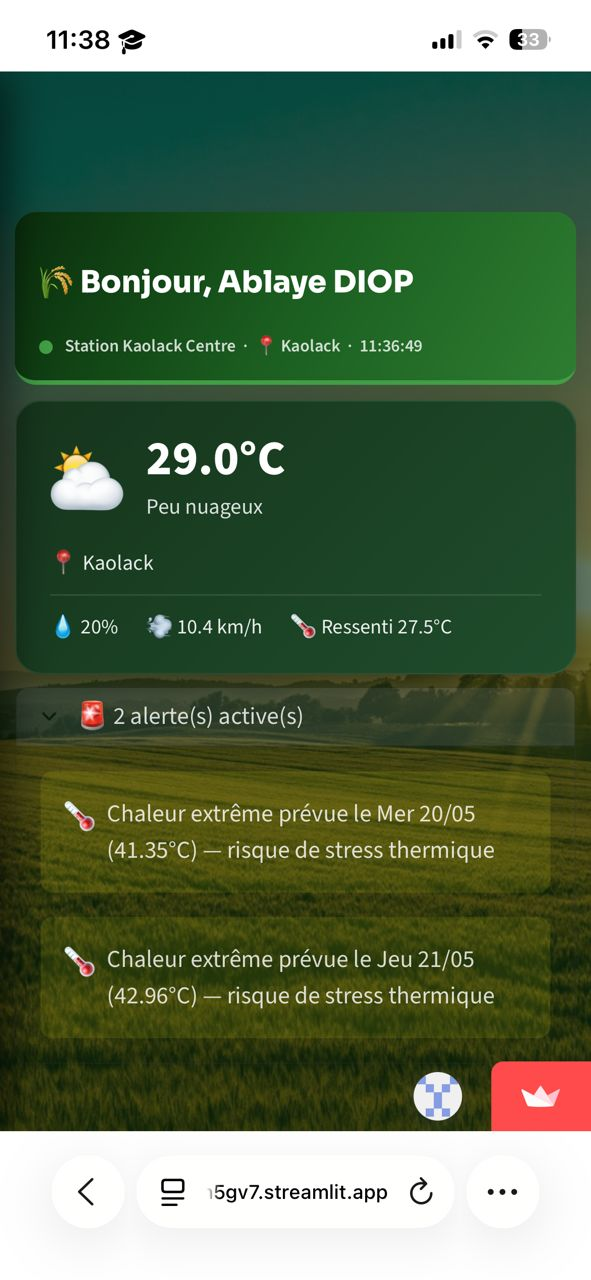
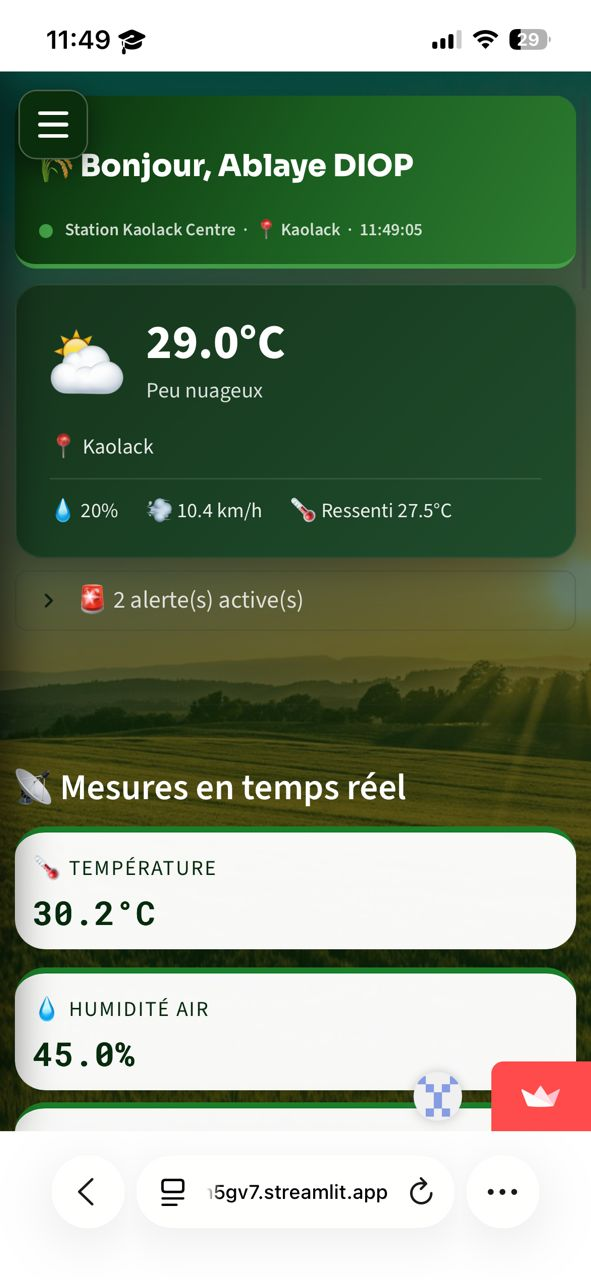
fix: mobile layout matches PC - keep horizontal columns instead of stacking

diff --git a/Agri_Station_meteo/frontend/css/styles.css b/Agri_Station_meteo/frontend/css/styles.css
@@ -750,45 +750,15 @@ li{
    ============================================================ */
 @media(max-width:768px){
 
-    /* ── Container ── */
+    /* ── Container — plus de padding top pour le hamburger ── */
     .block-container{
-        padding:0.5rem 0.6rem 1rem !important;
-        padding-top: 3.8rem !important;
+        padding:0.5rem 0.5rem 1rem !important;
+        padding-top: 3.5rem !important;
     }
 
-    /* ── Bouton hamburger natif Streamlit — visible et stylé ── */
+    /* ── Bouton hamburger natif Streamlit — caché (on utilise le custom) ── */
     [data-testid="collapsedControl"] {
-        display: flex !important;
-        visibility: visible !important;
-        opacity: 1 !important;
-        position: fixed !important;
-        top: 12px !important;
-        left: 12px !important;
-        z-index: 99999 !important;
-        background: var(--v-noir) !important;
-        border: 1px solid rgba(255,255,255,0.25) !important;
-        border-radius: 10px !important;
-        padding: 10px 13px !important;
-        box-shadow: 0 4px 16px rgba(0,0,0,0.55) !important;
-        cursor: pointer !important;
-        align-items: center !important;
-        justify-content: center !important;
-        transition: background 0.25s ease !important;
-    }
-    [data-testid="collapsedControl"]:hover {
-        background: var(--v-foret) !important;
-    }
-    [data-testid="collapsedControl"] svg {
-        fill: white !important;
-        color: white !important;
-        width: 22px !important;
-        height: 22px !important;
-    }
-    /* Libellé ">" natif Streamlit — cacher le texte, garder l'icône */
-    [data-testid="collapsedControl"] span {
-        color: white !important;
-        font-size: 1.4rem !important;
-        font-weight: 900 !important;
+        display: none !important;
     }
 
     /* ── Sidebar mobile ── */
@@ -806,105 +776,105 @@ li{
         transition: transform 0.3s cubic-bezier(0.25,0.46,0.45,0.94) !important;
     }
 
-    /* Bouton de fermeture dans la sidebar (croix native Streamlit) */
+    /* Bouton de fermeture dans la sidebar */
     [data-testid="stSidebar"] button[kind="header"] {
         color: white !important;
         background: rgba(255,255,255,0.1) !important;
         border-radius: 8px !important;
     }
 
-    /* ── Overlay sombre quand sidebar ouverte ── */
-    section[data-testid="stSidebar"][aria-expanded="true"] ~ div::before,
-    .stApp::after {
-        content: "";
-        display: none;
-    }
-
-    /* ── Colonnes Streamlit : empilement vertical ── */
+    /* ── Colonnes : garder le layout horizontal comme sur PC ── */
     [data-testid="stHorizontalBlock"]{
-        flex-wrap:wrap !important;
-        gap:8px !important;
-    }
-    [data-testid="stHorizontalBlock"] > [data-testid="stVerticalBlock"]{
-        min-width:100% !important;
-        flex:1 1 100% !important;
+        flex-wrap: nowrap !important;
+        gap: 6px !important;
     }
 
-    /* ── Exception : métriques en 2×2 ── */
-    [data-testid="stHorizontalBlock"]:has([data-testid="stMetric"]) > [data-testid="stVerticalBlock"]{
-        min-width:45% !important;
-        flex:1 1 45% !important;
-    }
-
-    /* ── Métriques ── */
+    /* ── Métriques — légèrement plus compactes ── */
     [data-testid="stMetric"]{
-        min-height:75px !important;
-        padding:10px 12px !important;
+        min-height:70px !important;
+        padding:8px 10px !important;
     }
     [data-testid="stMetricValue"]{
-        font-size:1.35rem !important;
+        font-size:1.1rem !important;
     }
     [data-testid="stMetricLabel"]{
-        font-size:0.62rem !important;
+        font-size:0.58rem !important;
     }
 
     /* ── Cartes prévisions ── */
     .meteo-card{
-        min-height:110px !important;
-        padding:8px !important;
+        min-height:100px !important;
+        padding:6px !important;
     }
     .meteo-card .temp{
-        font-size:1.05rem !important;
+        font-size:0.95rem !important;
     }
     .meteo-card .jour{
-        font-size:0.62rem !important;
+        font-size:0.58rem !important;
+    }
+    .meteo-card .desc{
+        font-size:0.65rem !important;
     }
 
     /* ── Titres ── */
     h1{
-        font-size:1.25rem !important;
+        font-size:1.15rem !important;
     }
     .entete h1,
     .entete-admin h1,
     .page-header h1{
-        font-size:1.25rem !important;
+        font-size:1.15rem !important;
     }
     .entete,
     .entete-admin,
     .page-header{
-        padding:14px 16px !important;
+        padding:12px 14px !important;
         border-radius:14px !important;
     }
 
     /* ── Sous-titre ── */
     .sous-titre{
-        font-size:0.72rem !important;
+        font-size:0.68rem !important;
     }
 
     /* ── Tabs ── */
     .stTabs [data-baseweb="tab"]{
-        font-size:0.72rem !important;
-        padding:6px 8px !important;
+        font-size:0.68rem !important;
+        padding:5px 7px !important;
     }
 
     /* ── Boutons ── */
     .stButton > button{
-        font-size:0.82rem !important;
-        padding:10px !important;
+        font-size:0.78rem !important;
+        padding:8px !important;
     }
 
     /* ── Reco card ── */
     .reco-card{
-        padding:14px 16px !important;
+        padding:12px 14px !important;
     }
     .reco-icon{
-        font-size:1.6rem !important;
+        font-size:1.5rem !important;
     }
     .reco-titre{
-        font-size:0.92rem !important;
+        font-size:0.88rem !important;
     }
     .reco-desc{
-        font-size:0.78rem !important;
+        font-size:0.75rem !important;
+    }
+
+    /* ── Météo actuelle card ── */
+    .meteo-now-card{
+        padding:12px !important;
+    }
+    .meteo-now-icon{
+        font-size:2rem !important;
+    }
+    .meteo-now-temp{
+        font-size:1.3rem !important;
+    }
+    .meteo-now-desc{
+        font-size:0.75rem !important;
     }
 }
 
